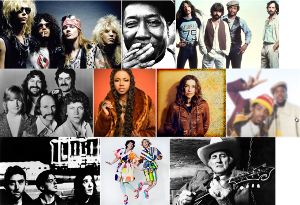
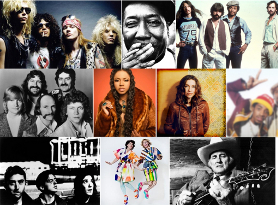
image styling

diff --git a/index.html b/index.html
@@ -83,7 +83,7 @@ title: pfarrell
       </div>
       <div class='project item'>
         <a href='http://shakin.herokuapp.com'>
-          <img src="/images/shakin_sm.jpg"></img>
+          <img src="/images/earthquake_sm.jpg"></img>
         </a>
         <div>
           <span class="title">Shakin'</span>

diff --git a/css/style.css b/css/style.css
@@ -116,3 +116,14 @@ p.section {
   padding: .5em;
   border-radius: .5em;
 }
+
+.item { 
+  width: 25%; 
+  padding: 1em;
+  margin: .2em;
+  border-radius:5px;
+}
+
+.item > img {
+  width: 200px;
+}
